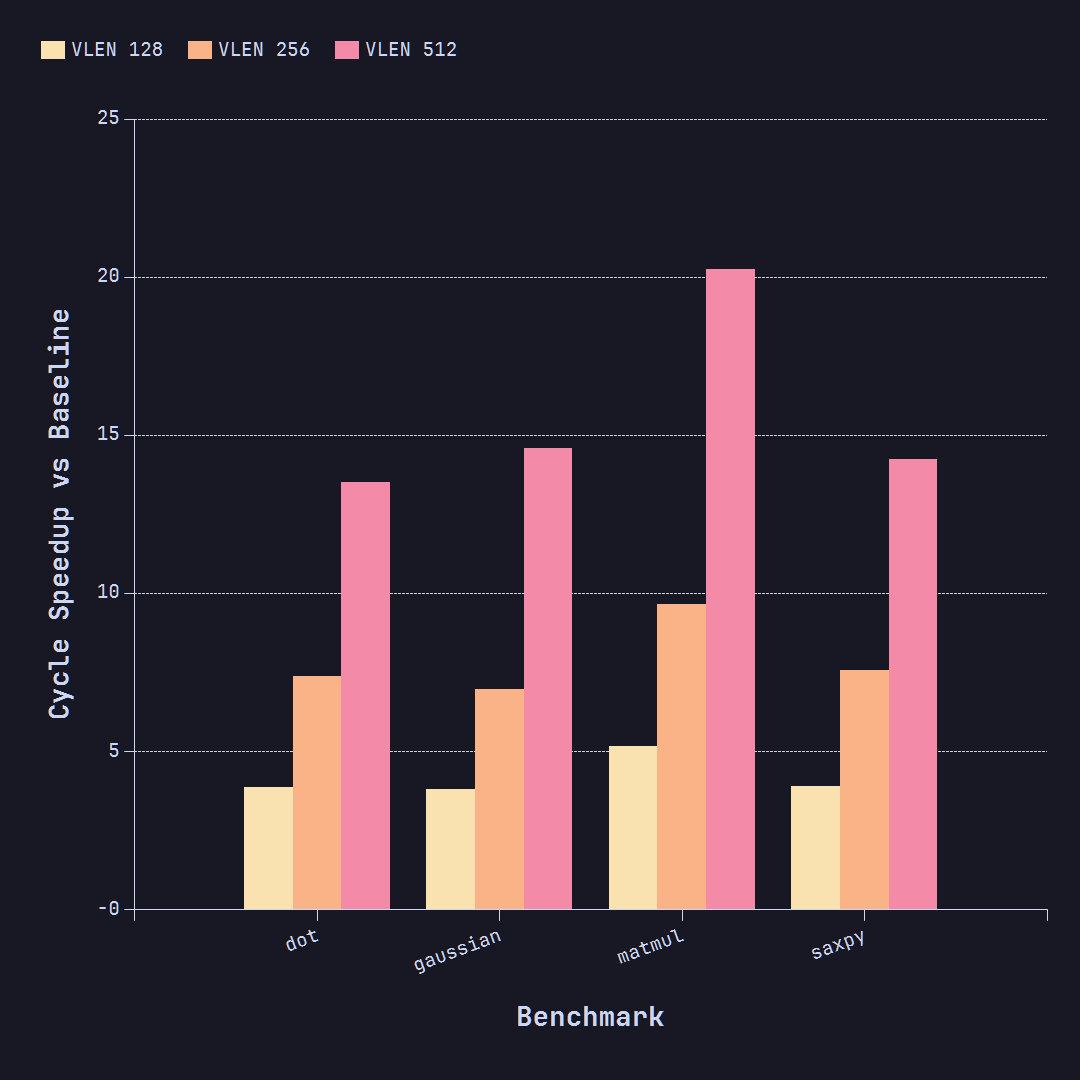
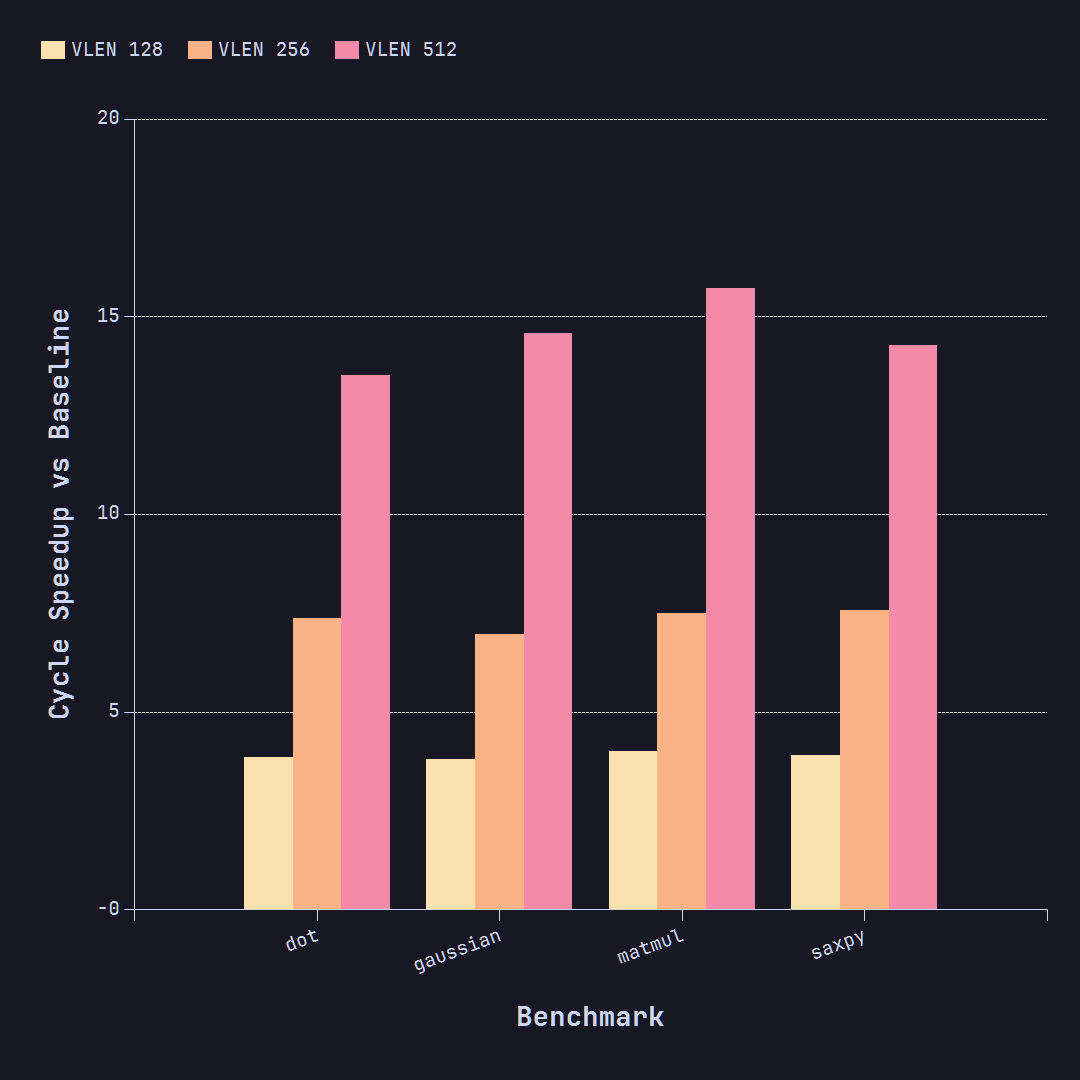
align scalar matmul with vector impl

diff --git a/bench/src/matmul.c b/bench/src/matmul.c
@@ -22,9 +22,10 @@ static int32_t c[N][N];
 NOINLINE void matmul(int32_t a[N][N], int32_t b[N][N], int32_t c[N][N]) {
 	for (int i = 0; i < N; i++) {
 		for (int j = 0; j < N; j++) {
-			c[i][j] = 0;
+			int32_t acc = 0;
 			for (int k = 0; k < N; k++)
-				c[i][j] += a[i][k] * b[k][j];
+				acc += a[i][k] * b[k][j];
+			c[i][j] = acc;
 		}
 	}
 }
